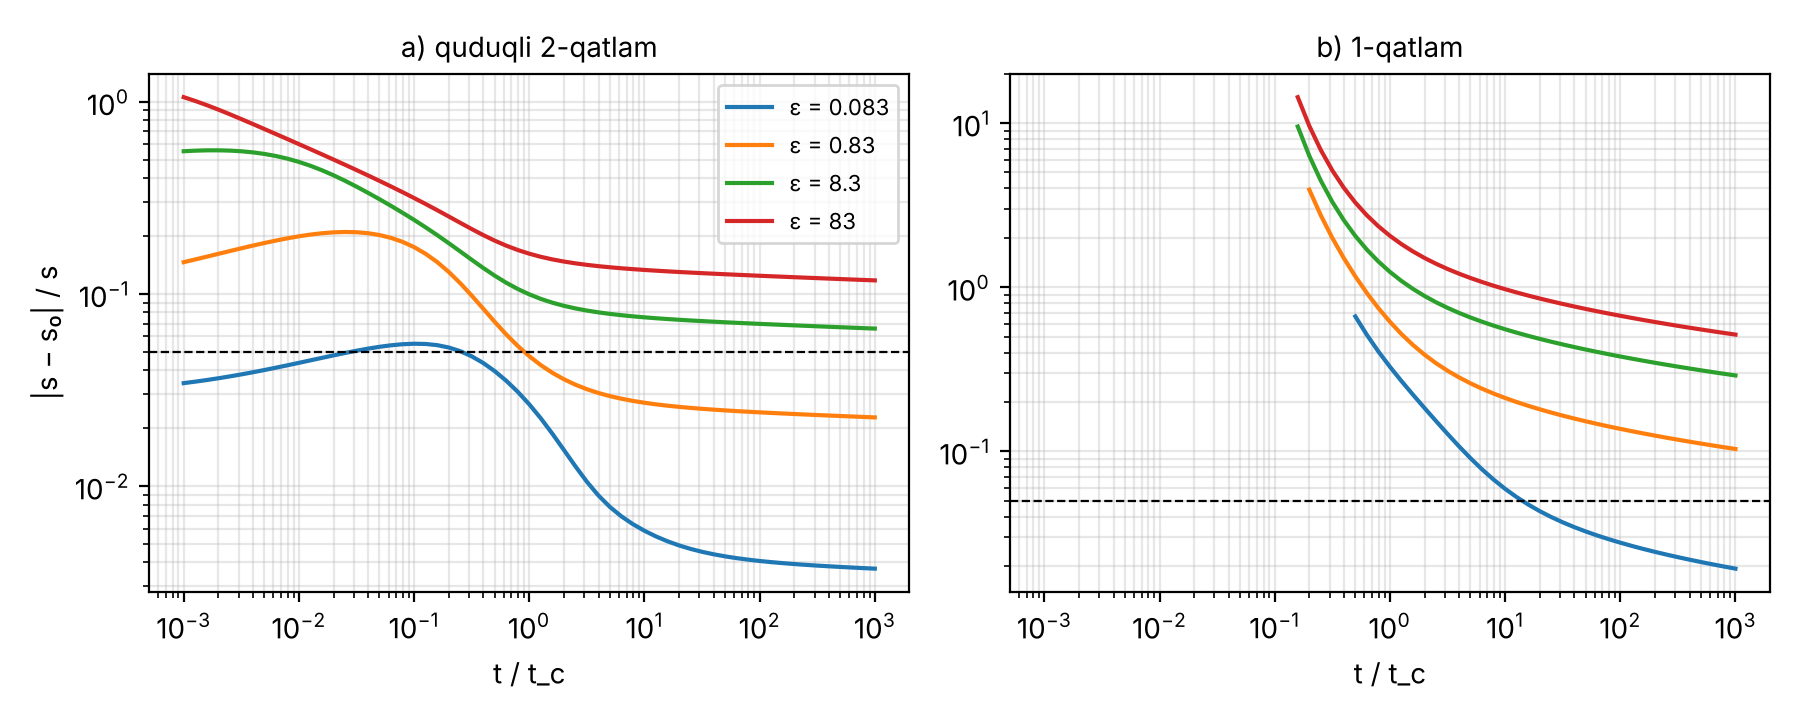
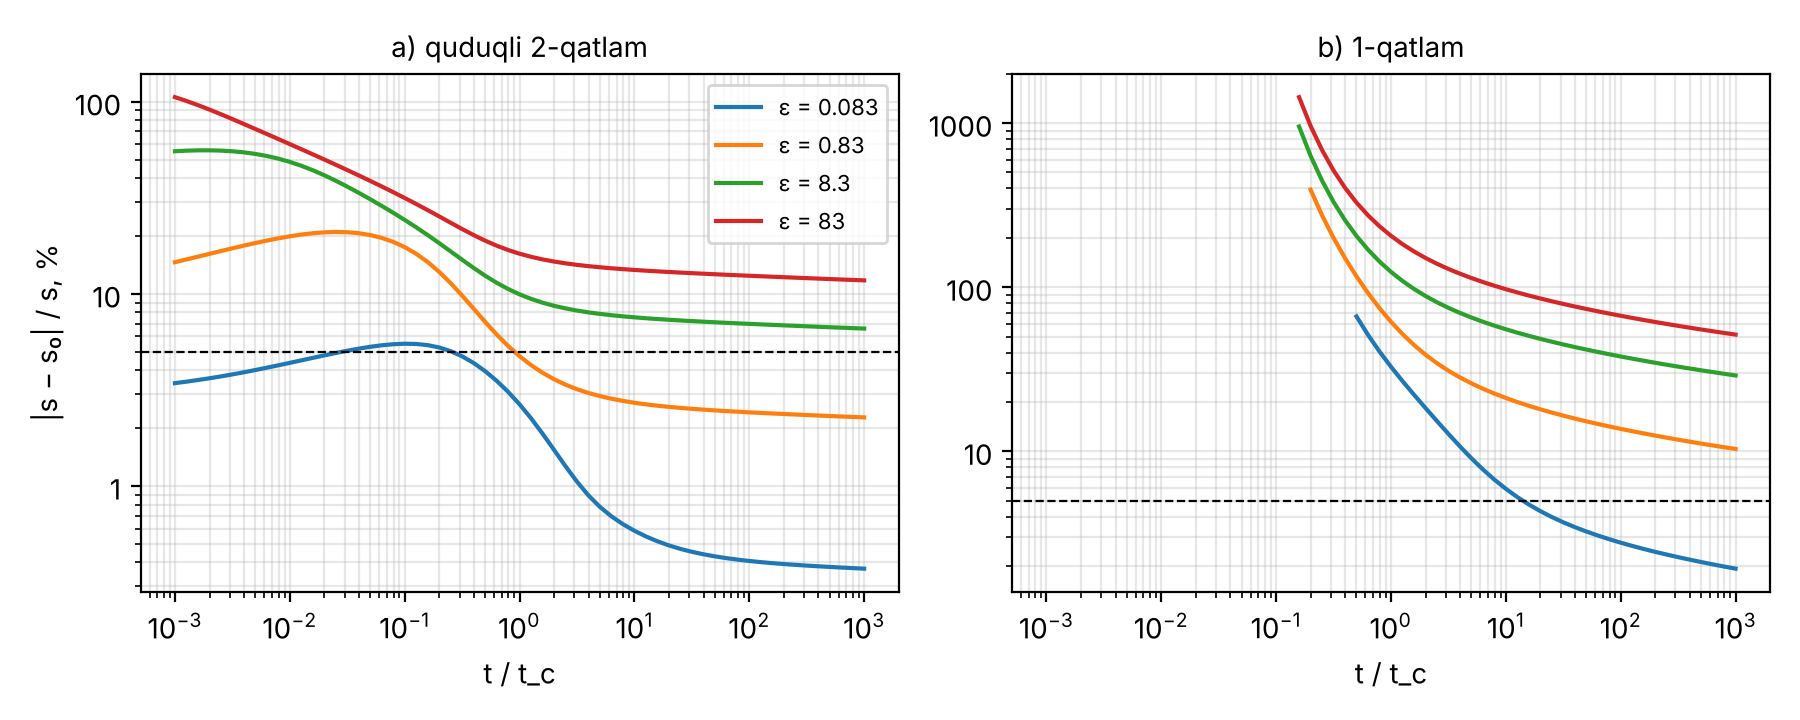
t_c rasmi foizda; K(x,y) va bosimsiz qatlamli tajriba
Claude-Session: https://claude.ai/code/session_013447sfoecCXKJsVoZembVH

diff --git a/tajribalar/t5_geterogen.py b/tajribalar/t5_geterogen.py
@@ -1,0 +1,82 @@
+"""5-tajriba: K(x,y), bosimsiz yuqori qatlam, infiltratsiya, bug'lanish va quduqlar.
+To'rt holat: sig'imli/sig'imsiz ajratuvchi x geterogen/bir jinsli K.
+Boshlang'ich holat: quduqlarsiz statsionar holat. Hisob 365 sutka."""
+import json
+import numpy as np
+import matplotlib
+matplotlib.use("Agg")
+import matplotlib.pyplot as plt
+import masala1 as m1
+
+Lx, Ly, nx, ny = 2000.0, 1000.0, 80, 40
+g = m1.Tor(np.full(nx, Lx / nx), np.full(ny, Ly / ny))
+X, Y = np.meshgrid(g.xc, g.yc)
+
+
+def ellips(cx, cy, a, b):
+    return ((X - cx) / a) ** 2 + ((Y - cy) / b) ** 2 < 1
+
+
+def maydonlar(geterogen):
+    if not geterogen:
+        return [8.0, 12.0, 20.0], [1e-3, 5e-4]
+    K1 = 8.0 * np.where(ellips(800, 600, 300, 150), 0.25, 1.0)
+    K1 = np.where(abs(Y - (0.35 * Ly + 0.1 * Ly * np.sin(2 * np.pi * X / Lx))) < 60, 8.0 * 2.5, K1)
+    K2 = 12.0 * (1 + 0.4 * np.sin(2 * np.pi * X / Lx) * np.cos(np.pi * Y / Ly))
+    K2 = np.where(ellips(1300, 400, 250, 180), 12.0 * 0.3, K2)
+    K3 = 20.0 * np.where(X > 1100, 1.5, 0.8)
+    Kv1 = 1e-3 * np.where(ellips(1500, 650, 200, 120), 20.0, 1.0)  # gidrogeologik oyna
+    Kv2 = 5e-4 * (1 + 0.5 * np.cos(2 * np.pi * X / Lx))
+    return [K1, K2, K3], [Kv1, Kv2]
+
+
+hd = [np.where(X < Lx / nx, 18.0, np.where(X > Lx - Lx / nx, 16.0, np.nan)),
+      np.where(X < Lx / nx, 17.0, np.where(X > Lx - Lx / nx, 15.5, np.nan)),
+      np.where(X < Lx / nx, 16.5, np.where(X > Lx - Lx / nx, 15.0, np.nan))]
+quduq_joy = [(1, 20, 30, 800.0), (1, 20, 50, 800.0), (1, 12, 40, 600.0), (2, 28, 40, 1000.0)]
+
+
+def hisob(sigimli, geterogen):
+    K, Kv = maydonlar(geterogen)
+    base = dict(N=3, K=K, b=[0.0, 15.0, 25.0], S=[0.10, 3e-4, 4e-4], bosimsiz=True, z_tub=0.0,
+                z_yer=20.0, E0=1.5e-3, Delta=3.0, nE=1.5, W=lambda t: 6e-4 * (1 + np.cos(2 * np.pi * (t - 60) / 365)),
+                Kv=Kv, bq=[6.0, 8.0], Ss=[3e-4, 2e-4] if sigimli else [0.0, 0.0],
+                M=[12, 12] if sigimli else [0, 0], hD=hd)
+    mo0 = m1.Model(g, **base)
+    H = m1.Yechuvchi(mo0).statsionar([np.full(g.nc, 17.0), np.full(g.nc, 16.5), np.full(g.nc, 16.0)])
+    mo = m1.Model(g, quduqlar=[m1.Quduq(*q) for q in quduq_joy], **base)
+    y = m1.Yechuvchi(mo)
+    y._ajratuvchi_boshlang(H)
+    kuz = [(1, 20, 30), (0, 20, 30), (2, 20, 30), (0, 30, 60)]
+    Hn, tl, o, bals = y.hisob(H, 365.0, 0.05, 1.15, tau_max=5.0, kuzat=kuz)
+    jam = {k: float(sum(b[k] for b in bals)) for k in ("dV_qatlam", "dV_ajratuvchi", "W", "E", "Q", "chegara")}
+    return dict(H0=[h.reshape(ny, nx) for h in H], H=[h.reshape(ny, nx) for h in Hn], t=tl, o=o, jam=jam,
+                balans=max(abs(y.balans_xatosi(b)[1]) for b in bals), iter_max=max(b["iter"] for b in bals))
+
+
+nat, R = {}, {}
+for sig in (True, False):
+    for get in (True, False):
+        key = f"{'sigimli' if sig else 'sigimsiz'}_{'geterogen' if get else 'birjinsli'}"
+        r = hisob(sig, get)
+        R[key] = r
+        s2 = r["H0"][1] - r["H"][1]
+        nat[key] = {"jamlanma_m3": r["jam"], "balans_nisbiy_max": r["balans"], "pikar_max": r["iter_max"],
+                    "pasayish_2qatlam_max_m": float(s2.max()),
+                    "pasayish_1qatlam_max_m": float((r["H0"][0] - r["H"][0]).max()),
+                    "quduq_suvi_ajratuvchidan_ulush": -r["jam"]["dV_ajratuvchi"] / r["jam"]["Q"]}
+        print(key, json.dumps(nat[key]))
+json.dump(nat, open("tajribalar/t5_geterogen.json", "w"), indent=1)
+
+fig, ax = plt.subplots(2, 2, figsize=(10, 5.6), sharex=True, sharey=True)
+for a, key in zip(ax.ravel(), ["sigimli_geterogen", "sigimsiz_geterogen", "sigimli_birjinsli", "sigimsiz_birjinsli"]):
+    r = R[key]
+    s = r["H0"][1] - r["H"][1]
+    cs = a.contourf(g.xc, g.yc, s, levels=np.linspace(0, max(R[k]["H0"][1].max() - 0 for k in R) * 0 + 4.0, 17), cmap="viridis_r", extend="max")
+    a.contour(g.xc, g.yc, r["H0"][0] - r["H"][0], levels=[0.1, 0.25, 0.5, 1.0], colors="w", linewidths=.7)
+    a.set_title(key.replace("_", ", ").replace("sigim", "sig'im"), fontsize=9)
+    a.set_aspect("equal")
+for a in ax[1]: a.set_xlabel("x, m")
+for a in ax[:, 0]: a.set_ylabel("y, m")
+fig.colorbar(cs, ax=ax, label="2-qatlamda napor pasayishi, m (oq: 1-qatlam)")
+fig.savefig("tajribalar/t5_geterogen.png", dpi=200, metadata={"Software": None})

diff --git a/tajribalar/t2_tc_mezoni.py b/tajribalar/t2_tc_mezoni.py
@@ -6,6 +6,7 @@ import numpy as np
 import matplotlib
 matplotlib.use("Agg")
 import matplotlib.pyplot as plt
+import matplotlib.ticker
 from masala1 import etalon
 
 T = [200.0, 100.0, 300.0]; S0 = np.array([2e-4, 1e-4, 3e-4])
@@ -23,11 +24,12 @@ for m in (10.0, 1.0, 0.1, 0.01):
     e[s1 < 0.01 * s1[:, [1]]] = np.nan
     nat["holatlar"].append({"eps": eps, "farq": e.tolist()})
     for a, k in zip(ax, (1, 0)):
-        a.loglog(t / tc, e[:, k], label=f"ε = {eps:.2g}")
+        a.loglog(t / tc, 100 * e[:, k], label=f"ε = {eps:.2g}")
 for a, sar in zip(ax, ("a) quduqli 2-qatlam", "b) 1-qatlam")):
     a.set_xlabel("t / t_c"); a.set_title(sar, fontsize=10); a.grid(alpha=.3, which="both")
-    a.axhline(0.05, color="k", lw=.8, ls="--")
-ax[0].set_ylabel("|s − s₀| / s"); ax[0].legend(fontsize=8)
+    a.axhline(5, color="k", lw=.8, ls="--")
+    a.yaxis.set_major_formatter(matplotlib.ticker.FuncFormatter(lambda v, _: f"{v:g}"))
+ax[0].set_ylabel("|s − s₀| / s, %"); ax[0].legend(fontsize=8)
 fig.tight_layout()
 fig.savefig("tajribalar/t2_tc_mezoni.png", dpi=200, metadata={"Software": None})
 json.dump(nat, open("tajribalar/t2_tc_mezoni.json", "w"))
